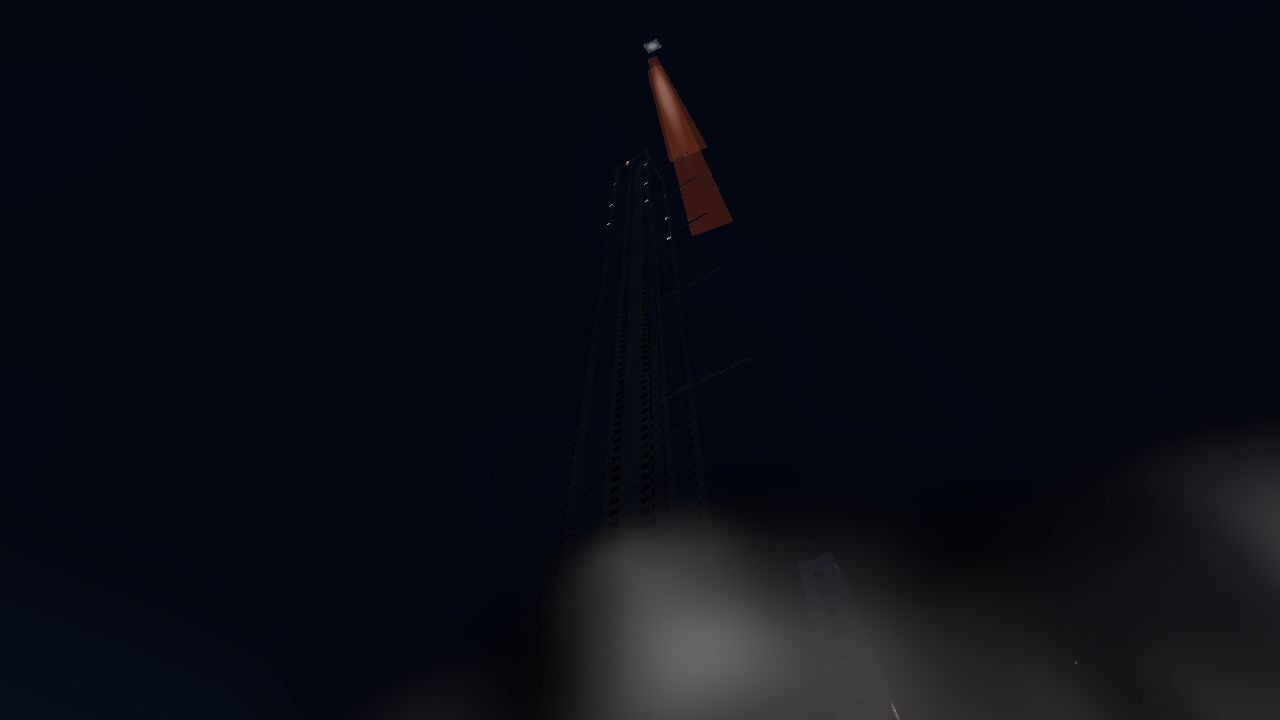
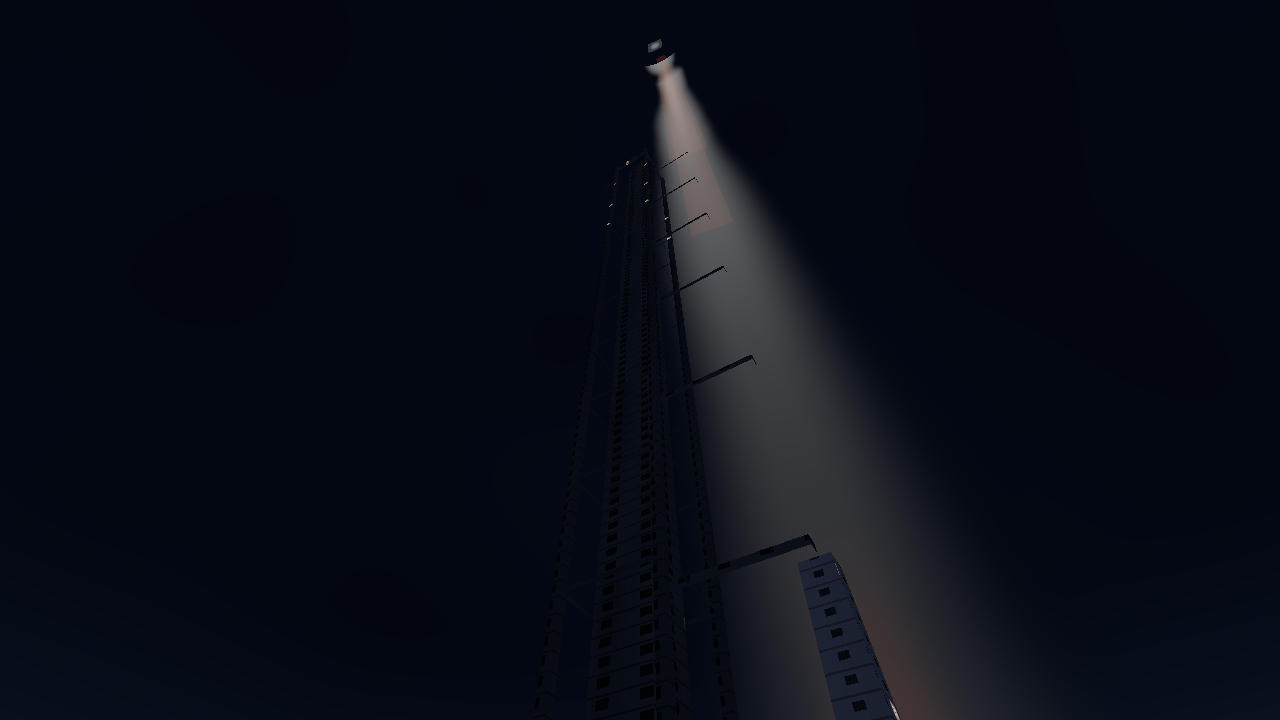
K1: keep the volume prototypes out of the city.
Film and realism both read the launch as a searchlight, and the street
frames did not clear a 7. Cards and volumes stay behind flags.

diff --git a/docs/fx/smoke-k1.html b/docs/fx/smoke-k1.html
@@ -28,29 +28,23 @@
   <p>Graphics tier is how the plume is drawn. The memory budget is how much stays resident. Ultra stays selectable on a phone and does not allocate the ultra particle buffer on a low device. Rules: <a href="../perf/MEMORY-RULES.html">MEMORY-RULES.html</a>.</p>
 
   <h2>What is in the picture</h2>
+  <p>Nothing from this pass. Billboard cards and the ray-marched prototypes are both behind flags in <code>src/fx/smoke/flags.ts</code>, and every flag is off. A poor still does not go into the city. The flame ribbon in <code>launch.ts</code> is unchanged. Kit steam gain stays 0.</p>
+  <p>The volume code is still in the repo. It is an original march, not a copied shader and not a downloaded flipbook.</p>
   <ul>
-    <li>One camera-facing billboard field in <code>src/fx/smoke</code>. Eight kinds share it: vent, manhole, roof, stall, barrel, stack, exhaust, and the launch column and ground cloud.</li>
-    <li>The stamp is an original flipbook, baked once from the same value noise as the curl field. Density in alpha, a tangent normal in the colour. No downloaded art. The rim is torn so a card is not a hard disc, and the core stays dense so a street puff still reads at night.</li>
-    <li>High and ultra add a short ray march for the launch only. Four steps on high, six on ultra. One noise sample and one in-scatter lookup per ray. Low and medium stay on billboards.</li>
-    <li>The launch flame ribbon in <code>src/districts/lax-spaceport/launch.ts</code> is the existing hot core. Smoke is the body around it. The ribbon is not rewritten into the lighting registry.</li>
-    <li>Street emitters are gathered near the camera from the block grid. Heroes for the market, the refinery gate, and the stacks are placed in the smoke catalog so district files stay untouched.</li>
+    <li><strong>Launch.</strong> One box around the pad. The fragment marches a finite vertical cylinder, Beer–Lambert, one low-frequency noise tap per step, one in-scatter sample per ray. Steps are 3 / 4 / 5 / 6 by tier. The sheath was meant to be the body. On the burn camera it read as a searchlight.</li>
+    <li><strong>Manhole and exhaust.</strong> One instanced unit box and one material. A sheet or a wake, entered on the front face and stopped at the scene depth. The market frame did not show steam the critics would count. The avenue wakes read as lamps.</li>
+    <li>Vent, roof, stall, barrel, and stack were never converted. Their cards stay off.</li>
   </ul>
 
   <h2>Wind, rain, light, scale</h2>
+  <p>The card field still implements the behaviour below. It is not drawn. The launch practicals are written only while the launch volume flag is on, so they are not in the city either.</p>
   <p>Every puff shares <code>Weather.windDir</code> and <code>params.wind</code>. Horizontal velocity approaches <code>wind × scale × shear</code> with the existing drag time constant, then it is clamped to the weather wind so a stack cannot run away from its flare. Scales: roof 0.5, manhole 0.45, vent 0.35, stall 0.3, stack 0.22, barrel 0.2, exhaust 0.15, pad cloud 0.04. The launch column scale is 0. It leans with <code>plumeLean</code>, the same family as the flame ribbon. Curl noise (Bridson, Hourihan, Nordenstam, SIGGRAPH 2007) is the local roll on top of that target. Rain cuts loft, adds a sideways push, and shortens life. Street cards that hit a solid are aged out. Barrel, stack, and roof cards may lift onto a roof. The launch skips building tests; it is an open apron. Breath discs use the same wind at 0.08 of the weather speed and skip a cell within 5 m of a vent, manhole, or stall.</p>
   <p><code>columnRadius</code> is about 22–46 m, so the sheath sits with the 60 m LAX street. Cards are a fraction of that radius. Hot cards stay at 0.16 of the radius. The ground ring is around the pad, not chosen from the camera. The additive ribbon in <code>launch.ts</code> uses the 1800 K flare chromaticity, and the head stays hot white. The two launch practicals are pad-scale (8000 cd / 64 m and 2500 cd / 48 m).</p>
   <p>Unlit steam is the fog colour times the albedo at a small coefficient. It is not multiplied by <code>authoredLiftU</code>, so a dark grate does not glow like a window. <code>practicalLit</code> and <code>practicalInscatter</code> supply the nits, including the low-tier 34 m bake. The flat sodium hint is gone. Soot and the launch sheath add a few nits of grey, under an 18-nit window, so a stack and a pad cloud still read where no lamp reaches. Barrel and launch flares are <code>flare</code> practicals through <code>setEphemeral</code>. A crease darkens the valleys of a card. Soft particles follow the NVIDIA SDK 10 depth fade, and an empty depth buffer does not delete the field.</p>
   <p>Cards thin with distance. The atlas is one texture, not an uncompressed copy beside a KTX2. Particle buffers and the billboard geometry are allocated for the tier that is showing, and rebuilt when the tier changes. The constructor starts at the low cap.</p>
 
   <h2>Tiers</h2>
-  <table>
-    <tr><th>Tier</th><th>Cards</th><th>Launch ground</th><th>Launch column</th><th>Volume steps</th><th>Gather</th></tr>
-    <tr><td>Low</td><td>96</td><td>14</td><td>0</td><td>0</td><td>48 m</td></tr>
-    <tr><td>Medium</td><td>320</td><td>32</td><td>40</td><td>0</td><td>80 m</td></tr>
-    <tr><td>High</td><td>520</td><td>56</td><td>72</td><td>4</td><td>120 m</td></tr>
-    <tr><td>Ultra</td><td>720</td><td>80</td><td>110</td><td>6</td><td>150 m</td></tr>
-  </table>
-  <p>Low draws the pad cloud and does not draw the column, so the kilometre ribbon is not a string of beads. Low also calls <code>practicalLit</code>, which on that tier is the 34 m sodium bake, not a flat hint on every card. Low spawns no ground traffic, so the tailpipe wake is a medium-and-up feature. There is no hard frame-rate gate. SwiftShader at 1280×720 is noisy: a cold shader compile and a warm frame are different numbers. On this revision, high launch drew 124 calls with the volume on (72 column cards, 47 ground) and the fps sample was a compile hitch at 0.35. The stack shot, a cheap sky, was 19 fps and 98 draws. Low launch was 60 fps and 74 draws, volume off, 0 column cards and 11 ground cards. Street shots sat at about 0.4–4 fps and 108–155 draws because of the crowd and the compile. <code>npm run memory:check</code> and <code>npm run stray</code> pass. Smoke added no meshes. The stray “round 10 fixture” note is older than this pass.</p>
+  <p>While a volume flag is on, the launch march is 3, 4, 5, and 6 samples and a street puff is 3, 4, 4, and 5. The loops are fixed at six and five. Extra taps are masked. One noise octave. With the flags off, none of those draws are built, so a low device does not compile them. Card buffers stay unallocated for the same reason. <code>npm run memory:check</code> passes. The stray “round 10 fixture” note is older than this pass.</p>
 
   <h2>Research</h2>
   <p>The implementations are original. The formulas are the public ones.</p>
@@ -65,38 +59,22 @@
   </ol>
 
   <h2>Stills</h2>
-  <p>High tier, 1280×720, night. The golden bulb ladder in the market frame is a neon sign. Street steam is the pale column in the lane. The stack’s orange mouth is the existing burner. The launch’s orange tip is the engine.</p>
+  <p>These four frames are the volume prototypes the critics scored. They are not what the city draws now. 1280×720, night. The golden bulb ladder in the market frame is a neon sign. The orange shape on the launch is the existing flame ribbon.</p>
   <figure>
-    <img class="pair" src="stills/launch.png" alt="Launch plume, high tier">
-    <figcaption>Launch, ultra. A grey mass beside the 1800 K ribbon, warm low in the column.</figcaption>
+    <img class="pair" src="stills/launch.png" alt="Launch volume prototype, ultra">
+    <figcaption>Launch, ultra. A smooth grey cone beside the ribbon. Film read it as a searchlight with one small puff at the nozzle.</figcaption>
   </figure>
   <figure>
-    <img class="pair" src="stills/launch-low.png" alt="Launch pad cloud, low tier">
-    <figcaption>Launch, low. The column cap is 0. The grey bank is the pad cloud.</figcaption>
+    <img class="pair" src="stills/launch-low.png" alt="Launch volume prototype, low">
+    <figcaption>Launch, low. The same cone, coarser. The puff at the nozzle is gone.</figcaption>
   </figure>
   <figure>
-    <img class="pair" src="stills/market-rain.png" alt="Market street in rain">
-    <figcaption>Market rain. The grey column in the lane is the vent. The bulb ladder is the sign. The brown patch on the asphalt is the manhole.</figcaption>
+    <img class="pair" src="stills/market-rain.png" alt="Market street, volume prototype">
+    <figcaption>Market rain. The bulb ladder is the sign. The critics found no steam.</figcaption>
   </figure>
   <figure>
-    <img class="pair" src="stills/stack.png" alt="Refinery stack">
-    <figcaption>Refinery stack. A grey cap on the mouth, orange only at the lip.</figcaption>
-  </figure>
-  <figure>
-    <img class="pair" src="stills/barrel.png" alt="Barrel soot">
-    <figcaption>Gate barrel. Dark soot at the mouth, next to a 1.80 m figure.</figcaption>
-  </figure>
-  <figure>
-    <img class="pair" src="stills/stall.png" alt="Food stall steam">
-    <figcaption>Food stall. A short dark wisp between the figures. The pink lantern is the sign.</figcaption>
-  </figure>
-  <figure>
-    <img class="pair" src="stills/roof.png" alt="Rooftop steam">
-    <figcaption>Roof. A dark column off a lower slab.</figcaption>
-  </figure>
-  <figure>
-    <img class="pair" src="stills/exhaust.png" alt="Tailpipe wisp">
-    <figcaption>Traffic rain. Short grey puffs by the taillights. Low tier spawns no ground traffic, so this wake is medium and up.</figcaption>
+    <img class="pair" src="stills/exhaust.png" alt="Traffic, volume prototype">
+    <figcaption>Traffic rain. The bright ovals on the road are lights. The soft grey shapes were not accepted as exhaust.</figcaption>
   </figure>
 
   <h2>Critics</h2>
@@ -139,10 +117,21 @@
     <tr><td>Roof</td><td>2 / 4 / 2</td></tr>
     <tr><td>Exhaust</td><td>1 / 3 / 1</td></tr>
   </table>
-  <p>Overall: realism 3, technical 4, film 3. Wind, lighting, and tiers on the technical read were 4, 4, and 4. The launch is the only frame that reads as a wide grey mass with a warm core, and the critics still called the lobes. The street column is a few metres and dark. The stack is a grey cap on the mouth. The barrel is person-scale with orange at the mouth. Nothing in round 12 cleared 7.</p>
+  <p>Overall on the card stills: realism 3, technical 4, film 3. Nothing in round 12 cleared 7. Those card frames are not the pictures above.</p>
+
+  <h2>Volume critics</h2>
+  <p>Three fresh readers scored the four frames on this page. Cells are realism, technical, then film. They were not given a target. The golden bulb ladder was named as a sign. The orange launch shape was named as the existing flame.</p>
+  <table>
+    <tr><th>Effect</th><th>Realism</th><th>Technical</th><th>Film</th></tr>
+    <tr><td>Launch, ultra</td><td>2</td><td>8</td><td>4</td></tr>
+    <tr><td>Launch, low</td><td>1</td><td>7</td><td>1</td></tr>
+    <tr><td>Manhole</td><td>1</td><td>2</td><td>1</td></tr>
+    <tr><td>Exhaust</td><td>2</td><td>2</td><td>1</td></tr>
+  </table>
+  <p>Overall: realism 2, technical did not give one number for the set (lighting 8, tier step-down 7, on the launch pair alone), film 2. The technical reader scored a small cap at the nozzle and called the cone a spotlight. Film and realism scored that cone as the smoke, and both refused it. No effect cleared 7 with all three. All three volume flags are off, and the card flag stays off.</p>
 
   <h2>Where to look</h2>
-  <p>The golden bulb ladder down the market canyon is a sign. Street steam is the pale column beside the umbrella pedestrians, and the manhole is the lower patch further up the lane. The stack’s orange mouth is the existing burner. The launch’s bright tip is the engine. Exhaust is the short grey trail behind the taillights, not the rain.</p>
+  <p>In the city as shipped, do not look for this pass. The launch flame is the ribbon that was already there. The market’s golden ladder is a sign. The avenue’s white pools are headlights and lamps.</p>
 </main>
 </body>
 </html>

diff --git a/src/fx/smoke/field.ts b/src/fx/smoke/field.ts
@@ -94,8 +94,8 @@ export class SmokeField {
   private pool: Pool = createPool(0);
   private geo: BufferGeometry | null = null;
   private mesh: Mesh | null = null;
-  private readonly volume: Mesh;
-  private readonly puffs: InstancedMesh;
+  private volume: Mesh | null = null;
+  private puffs: InstancedMesh | null = null;
   private tier: Tier = 'low';
   private emitters: Emitter[] = [];
   private anchorX = 1e9;
@@ -127,15 +127,20 @@ export class SmokeField {
     } else {
       this.pool = createPool(0);
     }
-    this.volume = launchVolumeMesh();
-    this.puffs = puffVolumeMesh();
-    scene.add(this.volume, this.puffs);
+    if (SMOKE_LAUNCH_VOLUME) {
+      this.volume = launchVolumeMesh();
+      scene.add(this.volume);
+    }
+    if (SMOKE_MANHOLE_VOLUME || SMOKE_EXHAUST_VOLUME) {
+      this.puffs = puffVolumeMesh();
+      scene.add(this.puffs);
+    }
   }
 
   conceal(): void {
     if (this.mesh) this.mesh.visible = false;
-    this.volume.visible = false;
-    this.puffs.visible = false;
+    if (this.volume) this.volume.visible = false;
+    if (this.puffs) this.puffs.visible = false;
   }
 
   snapshot(): SmokeSnapshot {
@@ -143,8 +148,8 @@ export class SmokeField {
     return {
       particles: this.pool.n,
       emitters: this.emitters.length,
-      draws: (this.mesh?.visible ? 1 : 0) + (this.volume.visible ? 1 : 0) + (this.puffs.visible ? 1 : 0),
-      volume: this.volume.visible,
+      draws: (this.mesh?.visible ? 1 : 0) + (this.volume?.visible ? 1 : 0) + (this.puffs?.visible ? 1 : 0),
+      volume: !!this.volume?.visible,
       launch: drive.burning || (drive.id > 0 && drive.age < 180),
       puffs: puffCount(),
       cap: this.pool.cap,
@@ -572,8 +577,8 @@ export class SmokeField {
 
   private placeVolume(drive: LaunchDrive, tier: Tier): void {
     const alive = drive.id > 0 && drive.age > 0.2 && drive.age < 200;
-    if (!SMOKE_LAUNCH_VOLUME || !volumeActive(tier) || !alive) {
-      this.volume.visible = false;
+    if (!SMOKE_LAUNCH_VOLUME || !this.volume || !volumeActive(tier) || !alive) {
+      if (this.volume) this.volume.visible = false;
       volDensity.value = 0;
       return;
     }
@@ -658,7 +663,7 @@ export class SmokeField {
 
   private writeLights(drive: LaunchDrive, camX: number, camZ: number): void {
     const lights: PunctualInput[] = [];
-    if (drive.burning && drive.id > 0) {
+    if (SMOKE_LAUNCH_VOLUME && drive.burning && drive.id > 0) {
       lights.push({ preset: 'flare', x: drive.x, y: drive.y + 6, z: drive.z, candela: 8000, range: 64 });
       lights.push({
         preset: 'flare',

diff --git a/src/fx/smoke/flags.ts b/src/fx/smoke/flags.ts
@@ -7,14 +7,17 @@
  * and the effect is not drawn.
  */
 
-/** Camera-facing stamps. Off. */
-export const SMOKE_CARDS = false;
+/** Camera-facing stamps. Twelve rounds, none cleared 7. Off. */
+export const SMOKE_CARDS: boolean = false;
 
-/** Ray-marched launch sheath. The march is the plume. */
-export const SMOKE_LAUNCH_VOLUME = true;
+/**
+ * Ray-marched launch sheath. The burn-camera still read as a searchlight
+ * (film 4 and 1, realism 2 and 1). Off.
+ */
+export const SMOKE_LAUNCH_VOLUME: boolean = false;
 
-/** Knee-high manhole sheet. */
-export const SMOKE_MANHOLE_VOLUME = true;
+/** Knee-high manhole sheet. The market still had no steam the critics would count. Off. */
+export const SMOKE_MANHOLE_VOLUME: boolean = false;
 
-/** One wake volume per nearby tailpipe. */
-export const SMOKE_EXHAUST_VOLUME = true;
+/** Tailpipe wakes. The avenue still read as lamps. Off. */
+export const SMOKE_EXHAUST_VOLUME: boolean = false;

diff --git a/src/fx/smoke/puffs.ts b/src/fx/smoke/puffs.ts
@@ -201,6 +201,7 @@ export function puffCount(): number {
 }
 
 export function syncPuffs(tier: Tier, list: readonly PuffPlacement[]): void {
+  if (!mesh && list.length === 0) return;
   const draw = puffVolumeMesh();
   if (!a0 || !a1 || !a2) return;
   puffSteps.value = PUFF_STEPS[tier];
